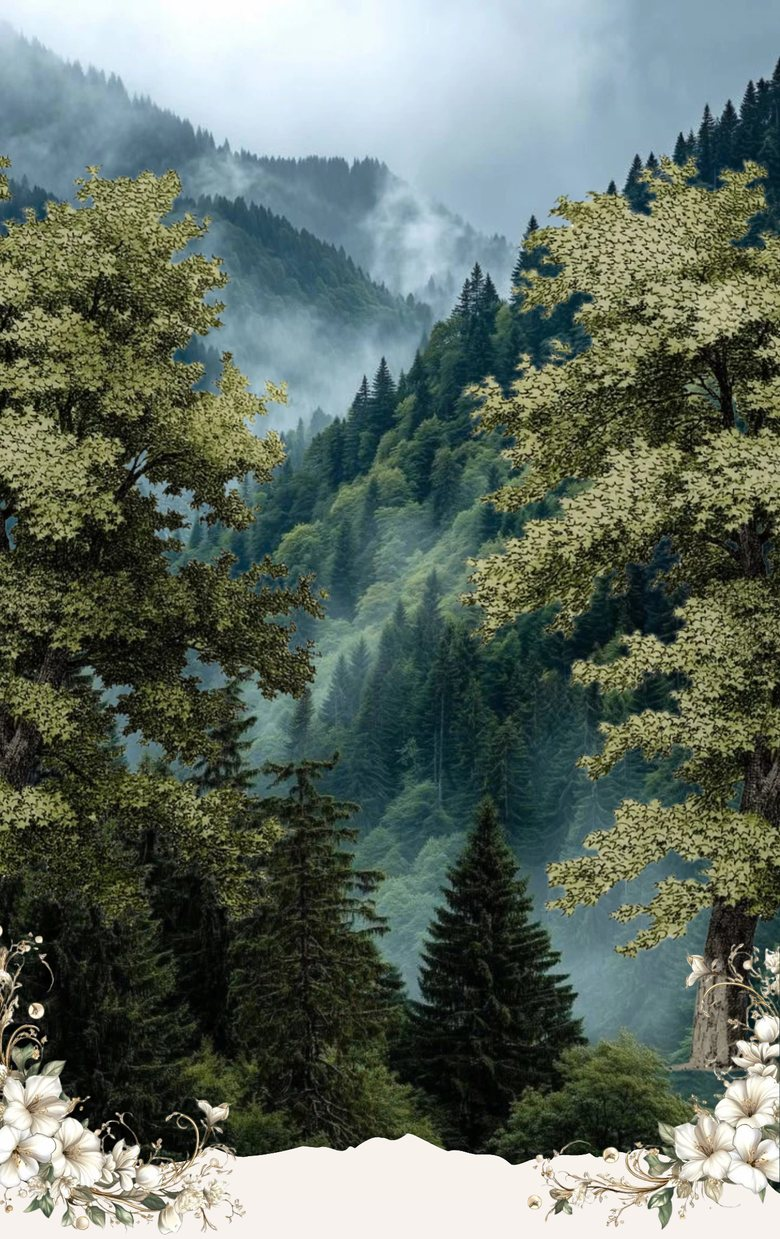
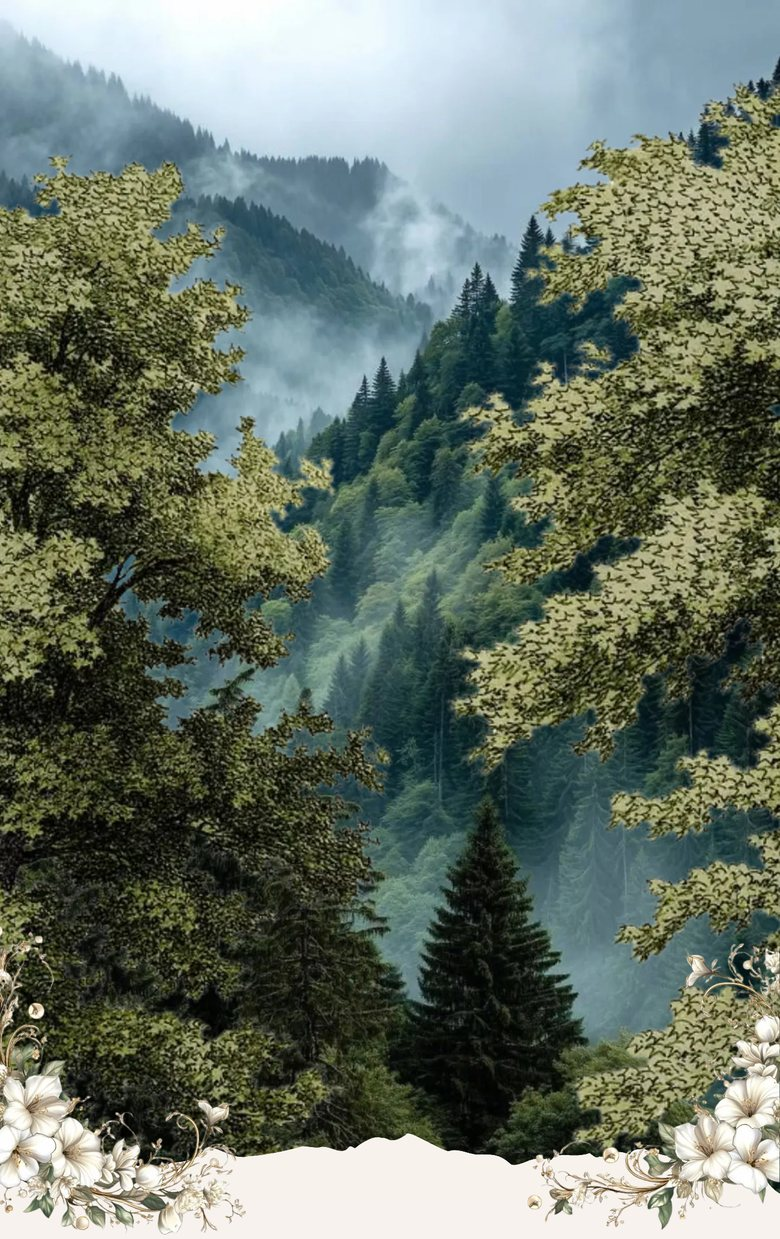
«Туманный лес»: деревья на обложке крупнее, стволов не видно
Деревья в 1,4 раза больше макета: голый ствол ушёл за края экрана и под
край бумаги, кроны обрамляют имена на прежних местах. Сомкнутое начало
анимации — наклон крон друг к другу вокруг основания ствола (оно за
кадром), поэтому и в начале стволы не показываются. Дерево — в полном
разрешении оригинала, превью каталога пересобрано (?v=2 из-за кэша).

diff --git a/frontend/public/invite/forest/styles.css b/frontend/public/invite/forest/styles.css
@@ -146,21 +146,23 @@ img { max-width: none; }
   from { transform: translateX(-6%); }
   to   { transform: translateX(6%); }
 }
+/* Деревья в 1,4 раза крупнее, чем в макете: голый ствол ушёл за края экрана
+   и под край бумаги, кроны обрамляют имена там же, где в макете.
+   Центр поворота и масштаба — основание ствола (он за кадром), поэтому и
+   при сомкнутых деревьях ствол не показывается. */
 .hero__tree {
   position: absolute; display: block; height: auto;
   pointer-events: none;
   will-change: transform;
+  transform-origin: 43.8% 93.6%;
 }
-/* Места деревьев — из макета; кроны вне страницы видны, пока деревья сомкнуты */
 .hero__tree--l {
-  left: calc(-631.4 * var(--u)); top: calc(115.3 * var(--u));
-  width: calc(1312.4 * var(--u));
-  transform-origin: 43% 100%;
+  left: calc(-1010 * var(--u)); top: calc(28 * var(--u));
+  width: calc(1839.6 * var(--u));
 }
 .hero__tree--r {
-  left: calc(667.4 * var(--u)); top: calc(124.9 * var(--u));
-  width: calc(1367.3 * var(--u));
-  transform-origin: 57% 100%;
+  left: calc(601 * var(--u)); top: calc(-59 * var(--u));
+  width: calc(1917.1 * var(--u));
 }
 
 /* Имена: три строки лесенкой, как в макете (жених левее, невеста правее) */
@@ -201,11 +203,11 @@ img { max-width: none; }
 .hero__corner--r { left: calc(923 * var(--u)); top: calc(1651 * var(--u)); width: calc(443 * var(--u)); }
 
 /* ── Раскрытие обложки (класс hero-go на <html>) ──
-   До старта: деревья сомкнуты посередине и чуть крупнее, имена прячутся.
-   Старт: деревья расходятся по местам макета, за ними проявляются
+   До старта: деревья наклонены друг к другу и сомкнуты кронами, имена прячутся.
+   Старт: деревья выпрямляются и расходятся, за ними проявляются
    имена, затем передние имена — поверх крон, и выплывают цветы. */
-.hero__tree--l { transform: translateX(calc(360 * var(--u))) scale(1.07); }
-.hero__tree--r { transform: translateX(calc(-360 * var(--u))) scale(1.07); }
+.hero__tree--l { transform: rotate(9deg) scale(1.12); }
+.hero__tree--r { transform: rotate(-9deg) scale(1.12); }
 .hero__bg { transform: scale(1.1); }
 .hero__names--back  { opacity: 0; transform: scale(.94); filter: blur(6px); }
 .hero__names--front { opacity: 0; }

diff --git a/frontend/src/lib/constants.ts b/frontend/src/lib/constants.ts
@@ -83,7 +83,7 @@ const HANDMADE_TEMPLATES = [
     description: 'Туманный лес на обложке: деревья расступаются, и из-за них появляются имена пары. Фото в винтажной овальной рамке, календарь дня с сердцем, беседка в розах и карта, расписание с жёлудем на треке, таймер, дресс-код мазками кисти и анкета для гостей.',
     tags: ['Лес', 'Природа', 'Винтаж', 'Зелёный', 'Анимация'],
     colors: ['#f7f2ed', '#4a552d', '#a0a496'],
-    preview: '/invite/forest/assets/preview.jpg',
+    preview: '/invite/forest/assets/preview.jpg?v=2',
     defaultCover: '/invite/forest/assets/album-1.jpg',
     defaultGallery: [] as string[],
     sampleBride: 'Мария',

diff --git a/frontend/src/components/ForestTemplate.tsx b/frontend/src/components/ForestTemplate.tsx
@@ -124,7 +124,7 @@ export default function ForestTemplate({ data, apiBase, fullPage, slug, editing 
 
   return (
     <div style={{ position: 'relative', width: '100%', height: '100%', overflow: 'hidden', background: '#f7f2ed', containerType: 'inline-size' }}>
-      <img src="/invite/forest/assets/preview.jpg" alt=""
+      <img src="/invite/forest/assets/preview.jpg?v=2" alt=""
         style={{ position: 'absolute', left: 0, top: 0, width: '100%', height: 'auto', display: 'block' }} />
       <p style={line(543 + (248 - fs) * 0.72, longest > 7 ? -40 : -97, fs)}>{groom}</p>
       <p style={line(823, -76, 129)}>и</p>
